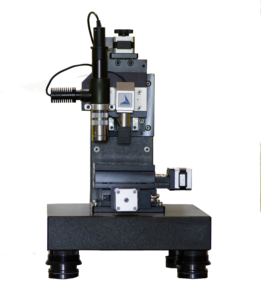
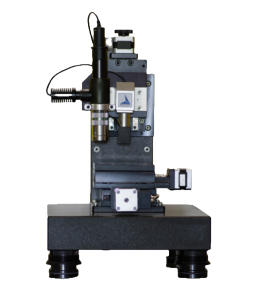
Latest

diff --git a/src/data/products.js b/src/data/products.js
@@ -353,7 +353,7 @@ export const PRODUCTS = [
   p({
     slug: 'mesoprobe',
     name: 'MesoProbe',
-    image: `${IMG}/MesoProbe.jpg`,
+    image: `${IMG}/MesoProbe.png`,
     ...SCROLL_SEQUENCE,
     category: 'Education and Research',
     shortDesc:
